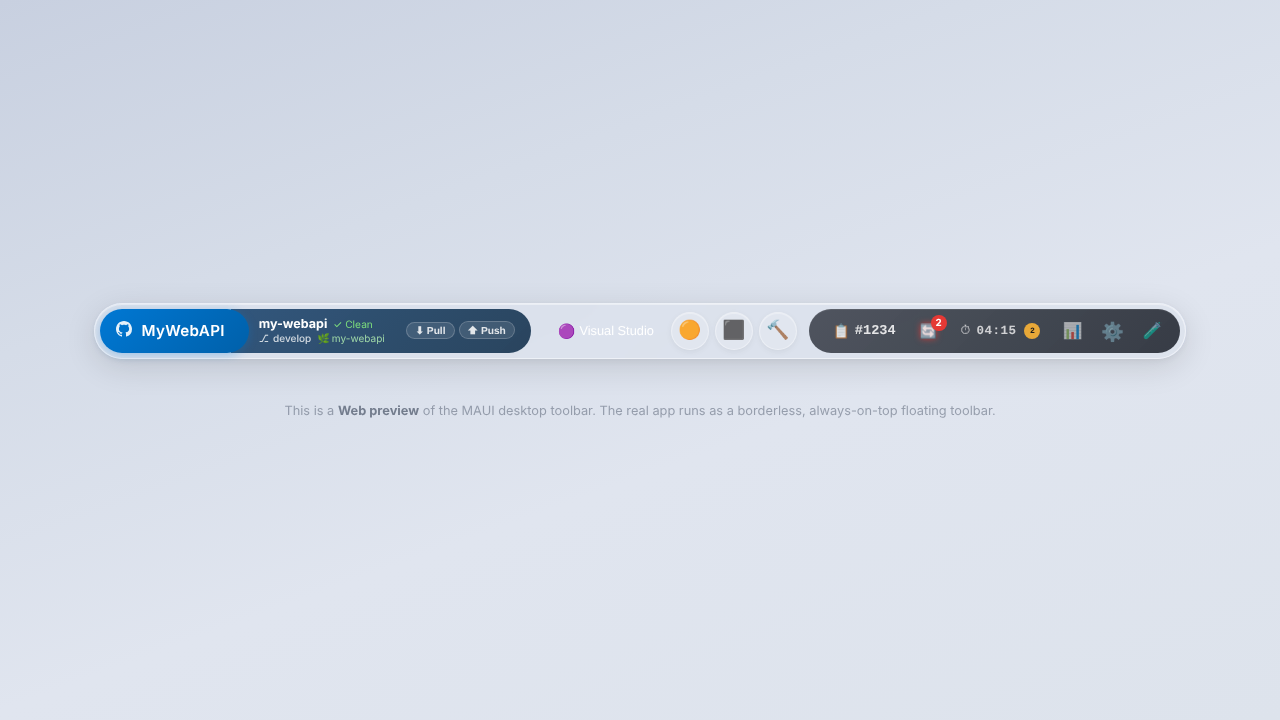
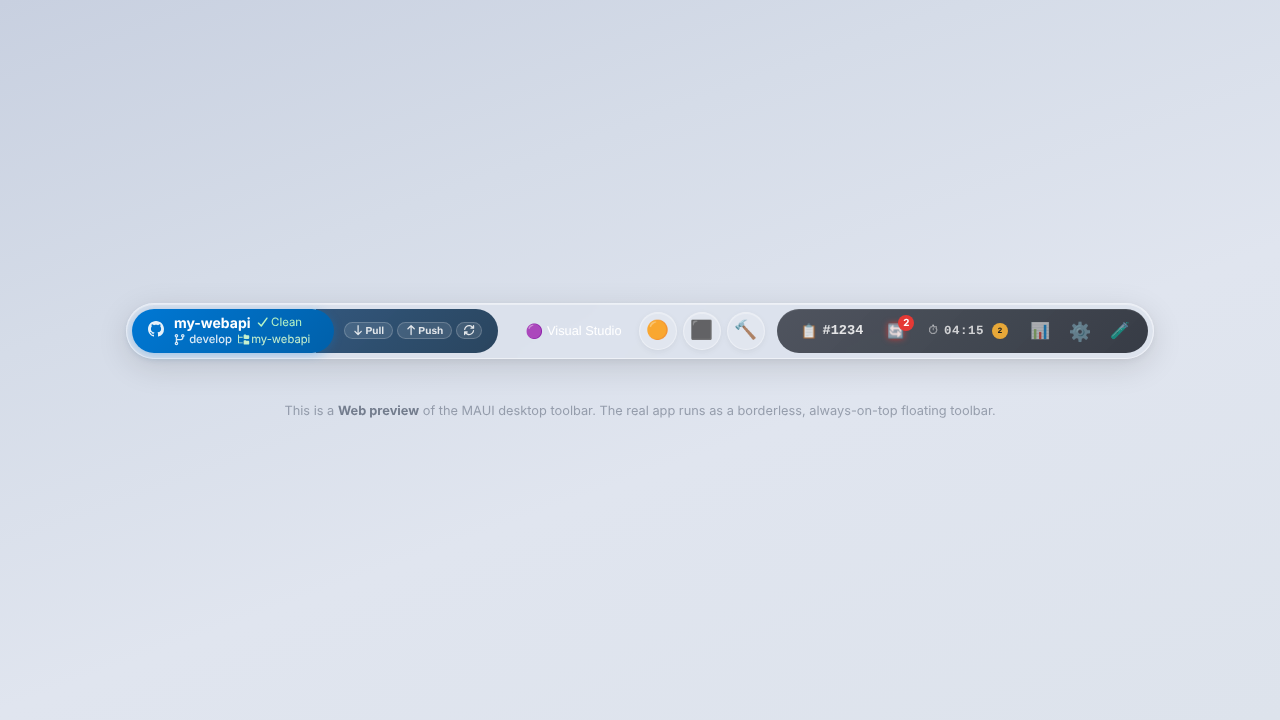
fix: project pill fits its content; keep tests and screenshots in step
- The project pill is as wide as the Git info it shows until the user drags its
  edge (PluginLayout.ResizableFitContent); Reset width fits it again.
- Quick actions moved into the system zone no longer flicker: action-overflow.js
  no longer counts their own width as room taken by another zone.
- While reorganizing, the system zone may shrink so ✅ / ❎ stay visible.
- The project name stays in the pill for screen readers.
- E2E tests follow the new layout (project pill resize, pinned Git module,
  quick actions dragged between zones); screenshots regenerated.

Claude-Session: https://claude.ai/code/session_011HCNSyCc1q1oNzyrQdyKRx

Changed region(s): [[0.5, 0.4278, 0.9375, 0.4889], [0.0625, 0.4278, 0.4688, 0.5194]]

diff --git a/src/Kazo.Bar.UI/wwwroot/css/toolbar.css b/src/Kazo.Bar.UI/wwwroot/css/toolbar.css
@@ -3692,3 +3692,30 @@ body.dock-bottom .project-dropdown { top: auto; bottom: calc(100% + 12px); }
 .system-reorganize-cancel { color: #ff7a7a; }
 .system-reorganize-accept .fa-icon,
 .system-reorganize-cancel .fa-icon { width: 1.15em; height: 1.15em; }
+
+/* A resizable module the user has not resized yet is as wide as its content (no size
+   containment, which would collapse it to its min width). */
+.module-frame.resizable.fit-content { container-type: normal; flex: 0 0 auto; }
+
+.module-frame.fit-content .project-selector.has-pill-content .project-selector-trigger { width: auto; }
+
+/* Read by screen readers, not shown. */
+.visually-hidden {
+    position: absolute !important;
+    width: 1px !important;
+    height: 1px !important;
+    padding: 0 !important;
+    margin: -1px !important;
+    overflow: hidden !important;
+    clip: rect(0, 0, 0, 0) !important;
+    white-space: nowrap !important;
+    border: 0 !important;
+}
+
+/* Quick actions moved to the system zone (US3.9): they take what they need and shrink
+   into their "…" menu (US3.4) instead of pushing the system buttons out of the toolbar. */
+.module-system .module-actions { flex: 0 1 auto; min-width: 38px; padding: 0 4px; }
+
+/* While reorganizing, nothing goes into "»": the system zone may shrink so ✅ / ❎ stay visible. */
+.toolbar-shell.reorganizing .module-system { flex-shrink: 1; min-width: 0; }
+.toolbar-shell.reorganizing .module-system > .system-btn { flex-shrink: 0; }

diff --git a/src/Kazo.Bar.UI/wwwroot/js/action-overflow.js b/src/Kazo.Bar.UI/wwwroot/js/action-overflow.js
@@ -24,7 +24,10 @@ function available(host) {
     const shellMax = Math.min(px(shellStyle.maxWidth) || Infinity, window.innerWidth - 16);
     let others = 0;
     for (const child of shell.children) {
-        if (child !== zone && getComputedStyle(child).position !== 'absolute') others += outerWidth(child);
+        if (child === zone || getComputedStyle(child).position === 'absolute') continue;
+        // The actions can sit inside another zone (US3.9, e.g. the system zone): count that
+        // zone without the actions, or the actions would compete with their own width.
+        others += child.contains(zone) ? outerWidth(child) - outerWidth(zone) : outerWidth(child);
     }
     const zoneStyle = getComputedStyle(zone);
     const zonePadding = px(zoneStyle.paddingLeft) + px(zoneStyle.paddingRight);

diff --git a/tests/Kazo.Bar.Tests.E2E/Scenarios/FeatureSpecTests.cs b/tests/Kazo.Bar.Tests.E2E/Scenarios/FeatureSpecTests.cs
@@ -168,10 +168,11 @@ public class FeatureSpecTests : PageTest
     }
 
     [Test]
-    public async Task US3_6_GitModule_IsResizedByDraggingItsEdge_AndRightClickResetsTheWidth()
+    public async Task US3_6_ProjectPill_FitsItsContent_IsResizedByDraggingItsEdge_AndResetWidthFitsAgain()
     {
         await OpenToolbar();
-        var module = Page.Locator(".module-frame[data-module-id='git-tools']");
+        var module = Page.Locator(".module-frame[data-module-id='core.project']");
+        await Expect(module).ToHaveClassAsync(new System.Text.RegularExpressions.Regex("fit-content"));
         var start = (await module.BoundingBoxAsync())!;
         var grip = module.GetByTestId("module-resize-grip");
         var box = (await grip.BoundingBoxAsync())!;
@@ -187,10 +188,13 @@ public class FeatureSpecTests : PageTest
             // Saved: still wider after a reload.
             await OpenToolbar();
             await WaitForWidth(module, w => w > start.Width + 60);
+            await Expect(module).Not.ToHaveClassAsync(new System.Text.RegularExpressions.Regex("fit-content"));
 
             await module.ClickAsync(new() { Button = MouseButton.Right, Position = new() { X = 20, Y = 10 } });
             var menu = module.GetByTestId("module-menu");
             await Expect(menu).ToBeVisibleAsync();
+            // The project pill never moves: no Move left / right.
+            await Expect(menu.GetByTestId("module-move-left")).ToHaveCountAsync(0);
             await menu.GetByTestId("module-reset-width").ClickAsync();
             await Expect(menu).ToHaveCountAsync(0);
             await WaitForWidth(module, w => Math.Abs(w - start.Width) < 1);
@@ -205,88 +209,103 @@ public class FeatureSpecTests : PageTest
     public async Task US3_7_ModulesAreReordered_FromTheirRightClickMenu()
     {
         await OpenToolbar();
-        var git = Page.Locator(".module-frame[data-module-id='git-tools']");
-        await Expect(Page.Locator(".toolbar-shell > .module-frame").First).ToHaveAttributeAsync("data-module-id", "git-tools");
+        var frames = Page.Locator(".toolbar-shell > .module-frame");
+        // Project pill, then the Git module glued to it, then the quick actions.
+        await Expect(frames.Nth(0)).ToHaveAttributeAsync("data-module-id", "core.project");
+        await Expect(frames.Nth(1)).ToHaveAttributeAsync("data-module-id", "git-tools");
+        await Expect(frames.Nth(2)).ToHaveAttributeAsync("data-module-id", "core.actions");
 
         try
         {
-            await git.ClickAsync(new() { Button = MouseButton.Right, Position = new() { X = 20, Y = 10 } });
-            await Expect(git.GetByTestId("module-move-left")).ToBeDisabledAsync();
-            await git.GetByTestId("module-move-right").ClickAsync();
+            var system = Page.Locator(".module-system > .module-frame");
+            var first = (await system.First.GetAttributeAsync("data-module-id"))!;
+            var second = (await system.Nth(1).GetAttributeAsync("data-module-id"))!;
+            Assert.That(second, Is.Not.EqualTo("core.timer"), "the test project needs two indicators");
 
-            await Expect(Page.Locator(".toolbar-shell > .module-frame").First).ToHaveAttributeAsync("data-module-id", "core.actions");
-            // Not right after the project pill any more: the Git module is a pill of its own.
-            await Expect(git).Not.ToHaveCSSAsync("margin-left", "-18px");
+            var firstFrame = Page.Locator($".module-frame[data-module-id='{first}']");
+            await firstFrame.ClickAsync(new() { Button = MouseButton.Right });
+            await Expect(firstFrame.GetByTestId("module-move-left")).ToBeDisabledAsync();
+            await firstFrame.GetByTestId("module-move-right").ClickAsync();
+            await Expect(system.First).ToHaveAttributeAsync("data-module-id", second);
+            await Expect(system.Nth(1)).ToHaveAttributeAsync("data-module-id", first);
 
-            // System zone: the timer is the last module and cannot move (US3.9).
+            // The timer is the last module and cannot move (US3.9).
             var timer = Page.Locator(".module-frame[data-module-id='core.timer']");
             await timer.ClickAsync(new() { Button = MouseButton.Right });
             await Expect(timer.GetByTestId("module-move-left")).ToBeDisabledAsync();
             await Expect(timer.GetByTestId("module-move-right")).ToBeDisabledAsync();
             await Page.Keyboard.PressAsync("Escape");
-            await Expect(Page.Locator(".module-system > .module-frame").Last).ToHaveAttributeAsync("data-module-id", "core.timer");
+            await Expect(system.Last).ToHaveAttributeAsync("data-module-id", "core.timer");
 
             // The order is listed (and can be reset) in Settings.
             await Page.Locator(".system-settings").ClickAsync();
             var section = Page.GetByTestId("settings-modules-section");
-            await Expect(section.Locator(".settings-module-row").First).ToHaveAttributeAsync("data-module-id", "core.actions");
+            var systemRows = section.Locator(".settings-modules-zone").Nth(1).Locator(".settings-module-row");
+            await Expect(systemRows.First).ToHaveAttributeAsync("data-module-id", second);
             await section.GetByTestId("settings-reset-order").ClickAsync();
-            await Expect(section.Locator(".settings-module-row").First).ToHaveAttributeAsync("data-module-id", "git-tools");
+            await Expect(systemRows.First).ToHaveAttributeAsync("data-module-id", first);
         }
         finally
         {
             await ResetToolbarLayout();
         }
-        await OpenToolbar();
-        await Expect(Page.Locator(".toolbar-shell > .module-frame").First).ToHaveAttributeAsync("data-module-id", "git-tools");
     }
 
     [Test]
     public async Task US3_9_ReorganizeMode_DragsModulesBetweenZones_AcceptAndCancel()
     {
         await OpenToolbar();
+        var actions = Page.Locator(".module-frame[data-module-id='core.actions']");
         var git = Page.Locator(".module-frame[data-module-id='git-tools']");
+        var project = Page.Locator(".module-frame[data-module-id='core.project']");
         var timer = Page.Locator(".module-frame[data-module-id='core.timer']");
         var settingsButton = Page.Locator(".system-settings");
+        var inSystem = Page.Locator(".module-system > .module-frame[data-module-id='core.actions']");
+
+        async Task StartReorganizing()
+        {
+            await timer.ClickAsync(new() { Button = MouseButton.Right });
+            await timer.GetByTestId("module-reorganize").ClickAsync();
+            await Expect(Page.Locator(".toolbar-shell.reorganizing")).ToHaveCountAsync(1);
+        }
 
         try
         {
-            // Context menu → ✏ Réorganiser: ✅ and ❎ replace the settings button.
-            await git.ClickAsync(new() { Button = MouseButton.Right, Position = new() { X = 20, Y = 10 } });
-            await git.GetByTestId("module-reorganize").ClickAsync();
-            await Expect(Page.Locator(".toolbar-shell.reorganizing")).ToHaveCountAsync(1);
+            // Context menu → Réorganiser: ✅ and ❎ replace the settings button.
+            await StartReorganizing();
             await Expect(settingsButton).ToHaveCountAsync(0);
             await Expect(Page.GetByTestId("reorganize-accept")).ToBeVisibleAsync();
             await Expect(Page.GetByTestId("reorganize-cancel")).ToBeVisibleAsync();
-            await Expect(timer).Not.ToHaveAttributeAsync("draggable", "true");
+            // Pinned: the project pill and Git module on the left, the timer on the right.
+            foreach (var pinned in new[] { project, git, timer })
+                await Expect(pinned).Not.ToHaveAttributeAsync("draggable", "true");
+            await Expect(actions).ToHaveAttributeAsync("draggable", "true");
 
-            // Drag Git onto the timer: it lands in the system zone, just before the timer.
-            await git.DragToAsync(timer);
-            await Expect(Page.Locator(".module-system > .module-frame[data-module-id='git-tools']")).ToHaveCountAsync(1);
+            // Drag the quick actions onto the timer: they land in the system zone, before the timer.
+            await actions.DragToAsync(timer);
+            await Expect(inSystem).ToHaveCountAsync(1);
             await Expect(Page.Locator(".module-system > .module-frame").Last).ToHaveAttributeAsync("data-module-id", "core.timer");
 
             // ❎ puts everything back.
             await Page.GetByTestId("reorganize-cancel").ClickAsync();
             await Expect(settingsButton).ToBeVisibleAsync();
-            await Expect(Page.Locator(".toolbar-shell > .module-frame").First).ToHaveAttributeAsync("data-module-id", "git-tools");
+            await Expect(inSystem).ToHaveCountAsync(0);
 
             // Again, then ✅ keeps it, also after a reload.
-            await git.ClickAsync(new() { Button = MouseButton.Right, Position = new() { X = 20, Y = 10 } });
-            await git.GetByTestId("module-reorganize").ClickAsync();
-            await git.DragToAsync(timer);
+            await StartReorganizing();
+            await actions.DragToAsync(timer);
             await Page.GetByTestId("reorganize-accept").ClickAsync();
             await Expect(settingsButton).ToBeVisibleAsync();
             await OpenToolbar();
-            await Expect(Page.Locator(".module-system > .module-frame[data-module-id='git-tools']")).ToHaveCountAsync(1);
+            await Expect(inSystem).ToHaveCountAsync(1);
 
-            // Back to the main zone through its drop slot.
-            var actions = Page.Locator(".module-frame[data-module-id='core.actions']");
-            await actions.ClickAsync(new() { Button = MouseButton.Right, Position = new() { X = 4, Y = 4 } });
-            await actions.GetByTestId("module-reorganize").ClickAsync();
-            await git.DragToAsync(Page.GetByTestId("module-drop-main"));
-            await Expect(Page.Locator(".toolbar-shell > .module-frame").Last).ToHaveAttributeAsync("data-module-id", "git-tools");
+            // Back to the (now empty) main zone through its drop slot; Esc cancels.
+            await StartReorganizing();
+            await actions.DragToAsync(Page.GetByTestId("module-drop-main"));
+            await Expect(Page.Locator(".toolbar-shell > .module-frame[data-module-id='core.actions']")).ToHaveCountAsync(1);
             await Page.Keyboard.PressAsync("Escape");
             await Expect(settingsButton).ToBeVisibleAsync();
+            await Expect(inSystem).ToHaveCountAsync(1);
         }
         finally
         {

diff --git a/src/Kazo.Bar.Core/Models/PluginLayout.cs b/src/Kazo.Bar.Core/Models/PluginLayout.cs
@@ -12,6 +12,13 @@ public sealed record PluginLayout
     /// <summary>True when the user can drag the module's right edge to change its width.</summary>
     public bool Resizable { get; init; }
 
+    /// <summary>
+    /// True when the module is as wide as its content (between min and max) until the user
+    /// resizes it, and again after "Reset width". <see cref="DefaultWidth"/> is then only used
+    /// as a fallback.
+    /// </summary>
+    public bool FitsContent { get; init; }
+
     /// <summary>Width in CSS px used until the user resizes, and after "Reset width".</summary>
     public int DefaultWidth { get; init; }
 
@@ -34,6 +41,13 @@ public sealed record PluginLayout
             DefaultWidth = Math.Clamp(defaultWidth, min, max),
         };
     }
+
+    /// <summary>
+    /// A resizable module that is as wide as its content (up to <paramref name="maxWidth"/>)
+    /// until the user drags its edge.
+    /// </summary>
+    public static PluginLayout ResizableFitContent(int minWidth, int maxWidth) =>
+        ResizableWidth(minWidth, minWidth, maxWidth) with { FitsContent = true };
 
     /// <summary>The width to use for a saved value: clamped, or the default when nothing is saved.</summary>
     public int EffectiveWidth(int? savedWidth) =>

diff --git a/tests/Kazo.Bar.Tests.E2E/Scenarios/ToolbarUiTests.cs b/tests/Kazo.Bar.Tests.E2E/Scenarios/ToolbarUiTests.cs
@@ -115,10 +115,11 @@ public class ToolbarUiTests : PageTest
     public async Task ProjectSelector_ShouldHaveThreeProjects()
     {
         await NavigateAndWait();
-        // Active project is shown in the trigger; open dropdown to see the other 2
+        // The menu lists every project, the active one checked
         await Page.Locator(".project-selector-trigger").ClickAsync();
         await Expect(Page.Locator(".project-dropdown")).ToBeVisibleAsync(new() { Timeout = 3000 });
-        await Expect(Page.Locator(".project-dropdown-item")).ToHaveCountAsync(2);
+        await Expect(Page.Locator(".project-dropdown-item")).ToHaveCountAsync(3);
+        await Expect(Page.Locator(".project-dropdown-item.active")).ToContainTextAsync("MyWebAPI");
     }
 
     [Test]

diff --git a/tests/Kazo.Bar.Tests.E2E/Scenarios/PluginSettingsTests.cs b/tests/Kazo.Bar.Tests.E2E/Scenarios/PluginSettingsTests.cs
@@ -64,7 +64,7 @@ public class PluginSettingsTests : PageTest
     private async Task OpenToolbarAsync()
     {
         await Page.GotoAsync(BaseUrl, new() { WaitUntil = WaitUntilState.NetworkIdle });
-        await Expect(Page.Locator(".git-selector-trigger")).ToBeVisibleAsync(new() { Timeout = 30000 });
+        await Expect(Page.GetByTestId("project-selector")).ToBeVisibleAsync(new() { Timeout = 30000 });
         await Expect(Page.Locator(".toolbar-shell[data-interactive='true']")).ToHaveCountAsync(1, new() { Timeout = 30000 });
     }
 

diff --git a/doc/Features.md b/doc/Features.md
@@ -403,7 +403,7 @@ Référence visuelle : [`doc/Toolbar-desing-exemple.png`](Toolbar-desing-exemple
 - [x] La pilule du projet et le module Git, collés à gauche, ne bougent pas non plus (voir US5.6). La zone principale contient donc les actions rapides et les modules qu'on y dépose.
 - [x] Pendant le mode, aucun module ne part dans le menu « » » (US3.8), pour qu'on puisse tous les déplacer.
 - [x] La zone de chaque module est enregistrée dans `settings.toolbarLayout.moduleZones` (id → `main` ou `system`), à côté de `moduleOrder`. Une zone inconnue est ignorée ; « Reset order » remet aussi les zones par défaut. Pas de changement de version de schéma : la propriété est facultative.
-- Capture : `doc/screenshots/16-reorganize-mode.png`.
+- Capture : `doc/screenshots/19-reorganize-mode.png`.
 - Composants : `ModuleFrame.razor` (glisser, menu), `MainLayout.razor` (zones, ✅ / ❎), `ToolbarLayoutController` (brouillon, enregistrement), `ToolbarModuleLayout` et `ToolbarArrangement` (logique pure, testée).
 
 ## US3.8 Débordement des modules et de leurs éléments
